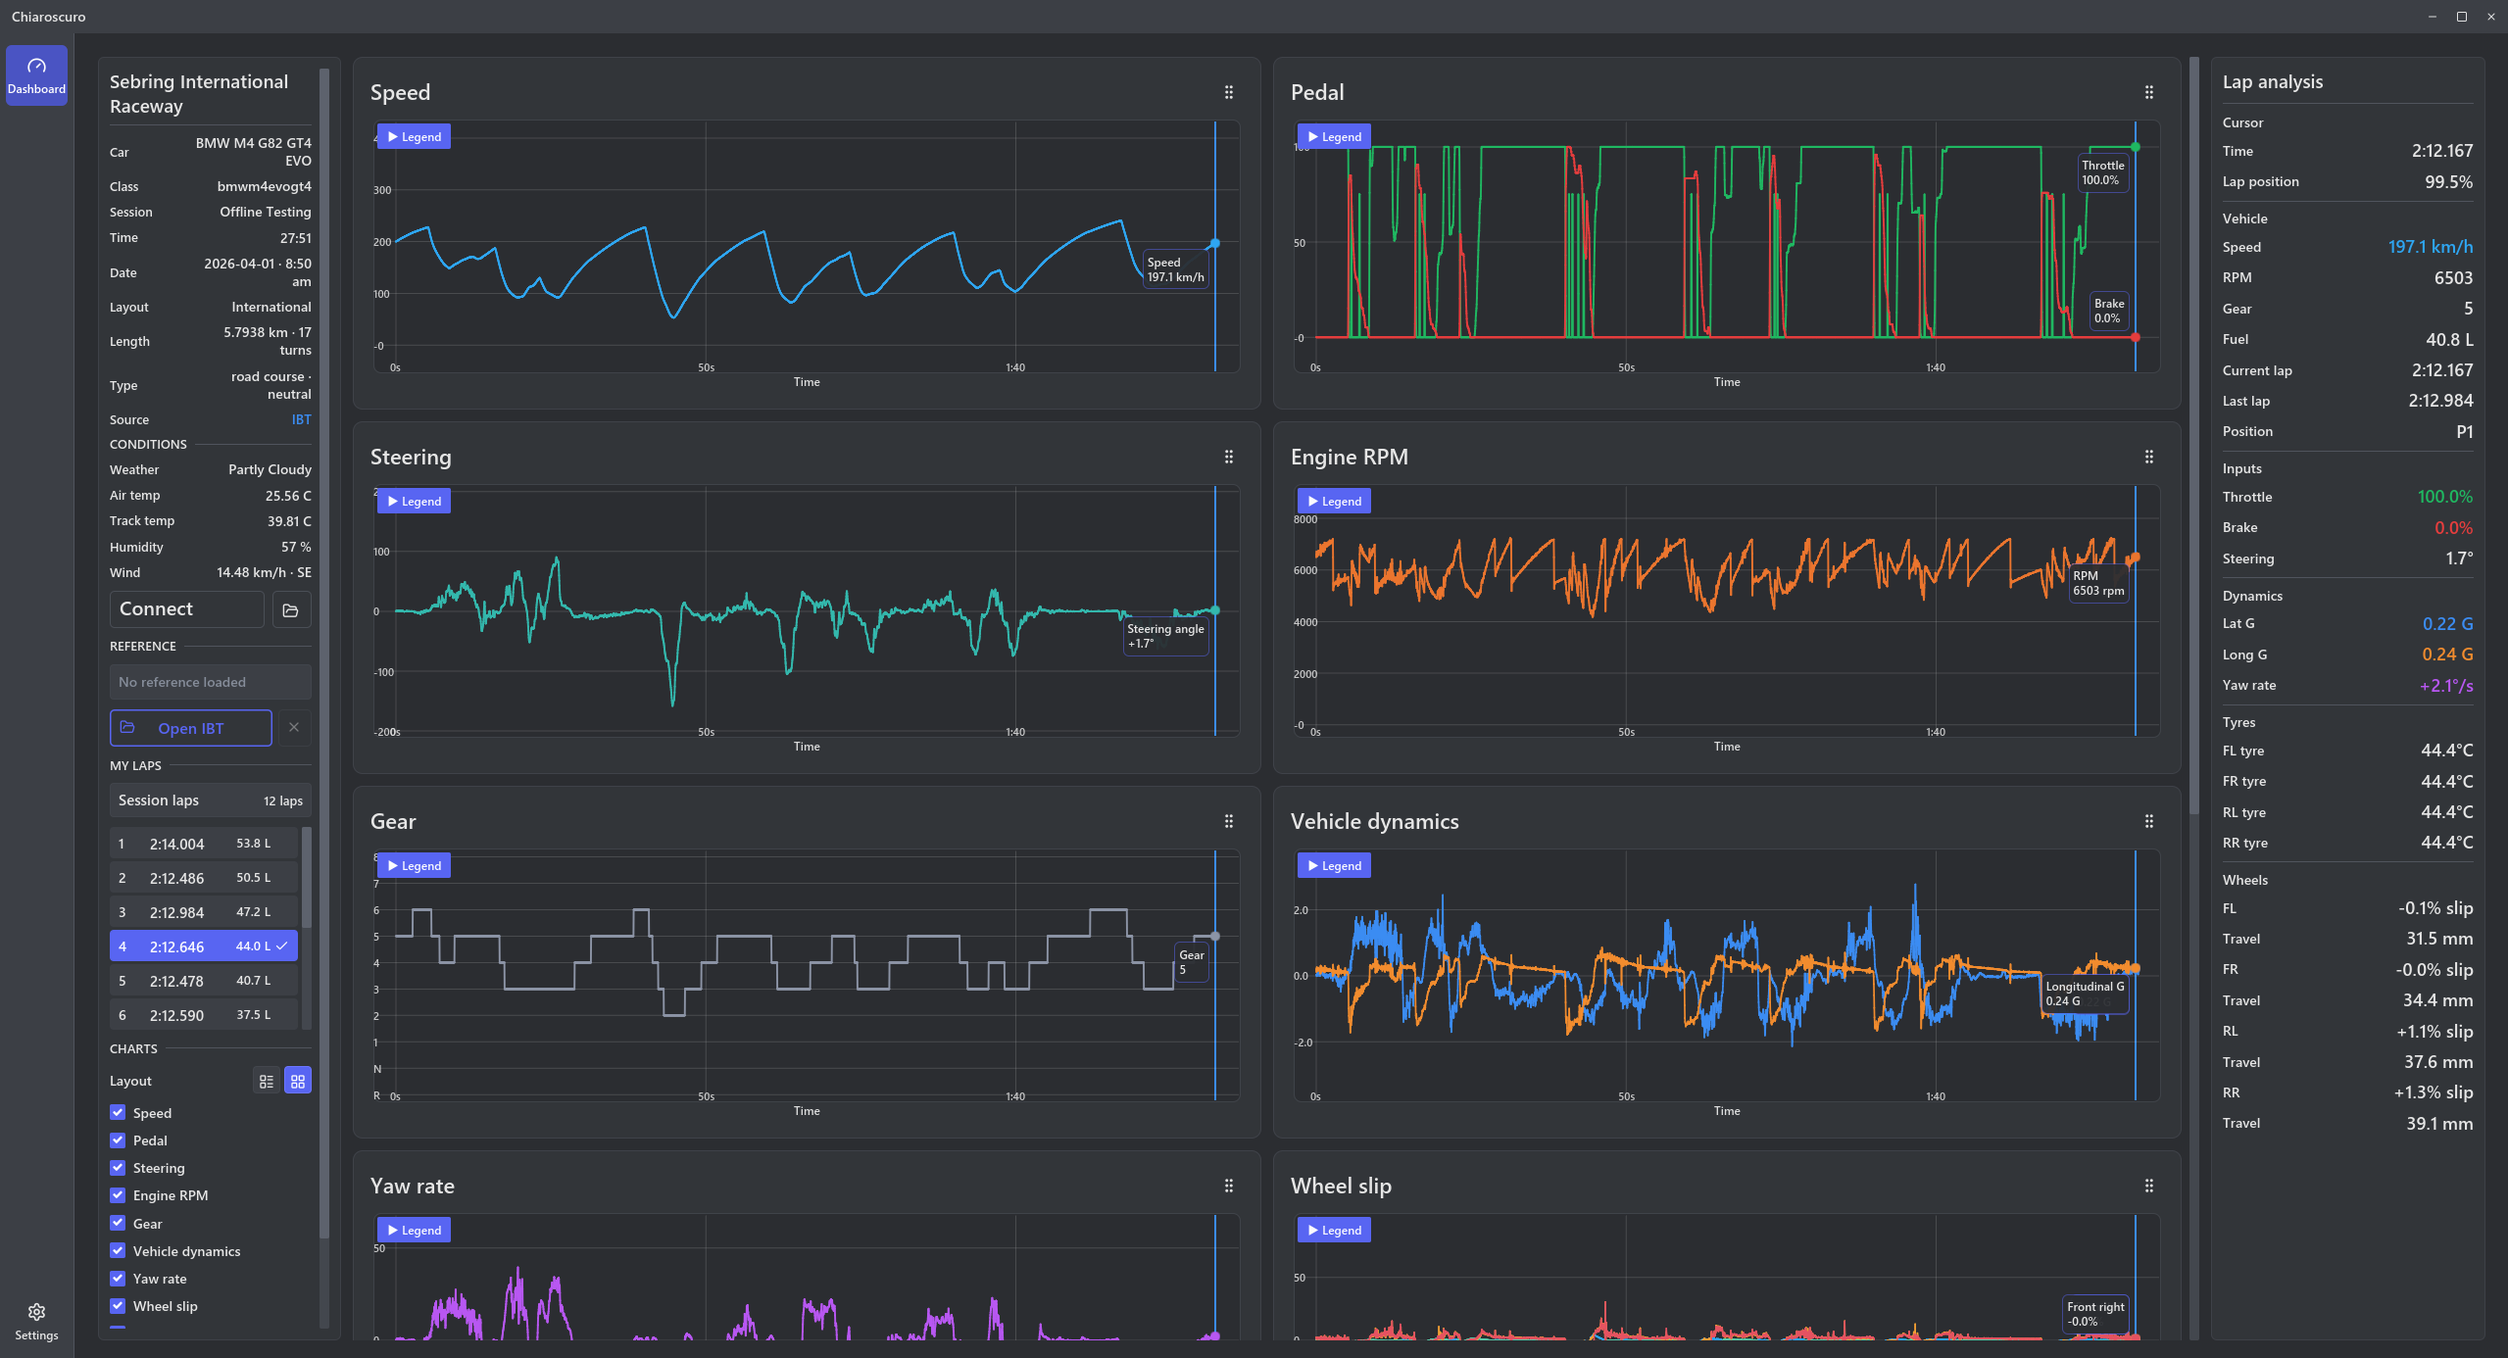
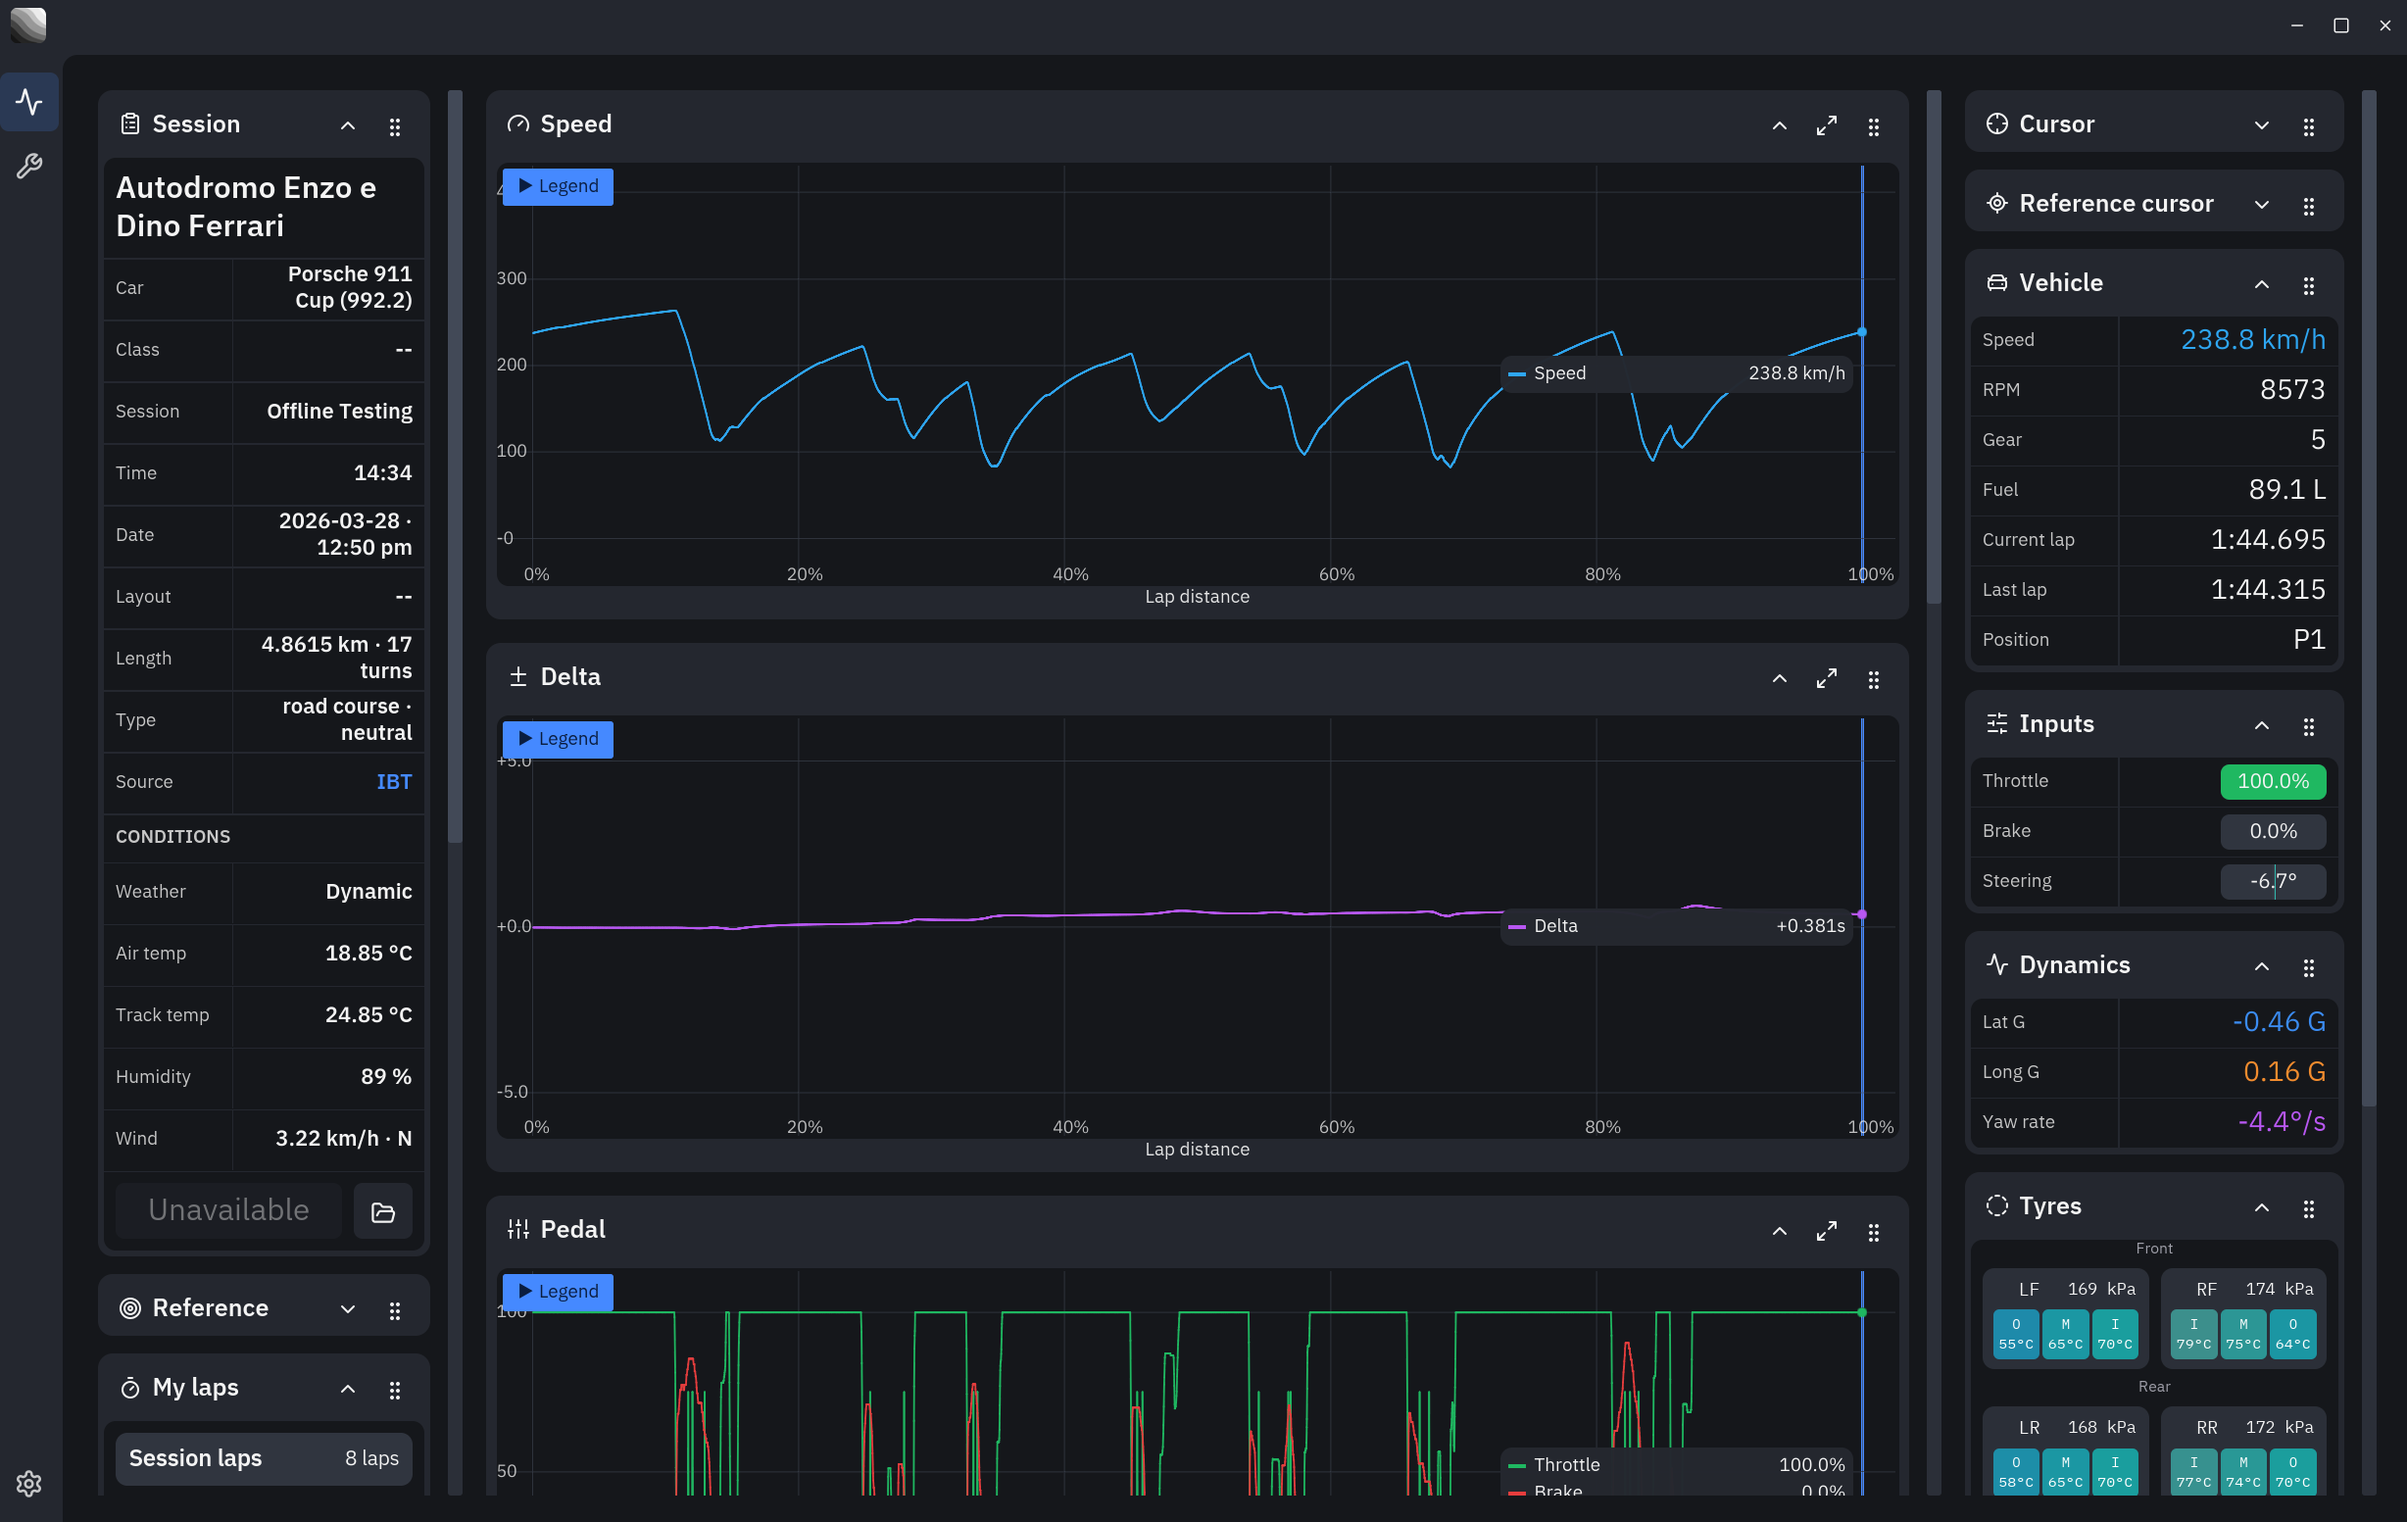
docs: refresh workspace overview and screenshot
Document the separate Telemetry and Car setup workspaces so the project overview matches the redesigned application.

diff --git a/README.md b/README.md
@@ -7,11 +7,12 @@ An iRacing telemetry viewer built with Rust and the Iced GUI framework.
 </div>
 
 Chiaroscuro is a real-time telemetry viewer designed exclusively for iRacing. It
-provides a desktop dashboard for live vehicle, session, lap, and tyre telemetry.
+provides dedicated Telemetry and Car setup screens for live vehicle, session,
+lap, tyre, and setup data.
 
 <p align="center">
   <a href="docs/images/dashboard.png">
-    <img src="docs/images/dashboard.png" alt="Chiaroscuro telemetry dashboard" width="100%">
+    <img src="docs/images/dashboard.png" alt="Chiaroscuro Telemetry screen" width="100%">
   </a>
 </p>
 
@@ -30,7 +31,7 @@ transport is required.
 ## Features
 
 - Real-time telemetry data visualization
-- Customizable dashboard with multiple widgets
+- Vertical navigation between customizable Telemetry and Car setup screens
 - iRacing SDK telemetry integration
 - Lightweight and fast performance
 - iRacing-focused vehicle, session, lap, and tyre data model
@@ -41,10 +42,10 @@ Contributions are welcome! Please open an issue or submit a pull request for any
 
 ## Implementation Status
 
-The desktop shell and telemetry dashboard are under active development. Live
-iRacing SDK telemetry is available on Windows through the in-process
-shared-memory client. IBT recordings remain available without a live iRacing
-connection.
+The desktop shell, Telemetry screen, and Car setup screen are under active
+development. Live iRacing SDK telemetry is available on Windows through the
+in-process shared-memory client. IBT recordings remain available without a live
+iRacing connection.
 
 ## License
 
